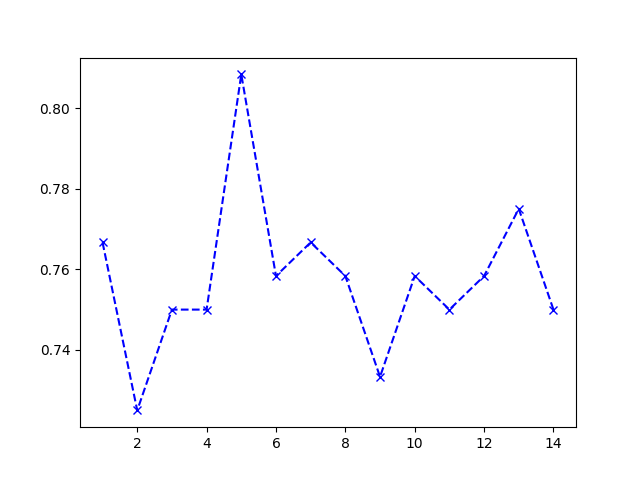
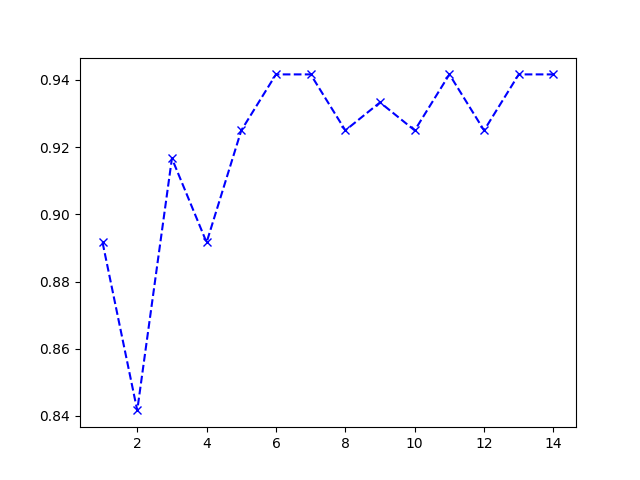
Add reworked KNN and main files

diff --git a/main.py b/main.py
@@ -1,17 +1,20 @@
+import numpy as np
 import pandas as pd
 import matplotlib.pyplot as plt
 import seaborn as sns
-from sklearn.metrics import accuracy_score
 from sklearn.model_selection import train_test_split
 from algorithm.KNN import KNN
 import tkinter as tk
 from tkinter import filedialog, messagebox
+from scipy.stats import mode
 
 
 class KNNApp:
     def __init__(self, root):
         self.root = root
         self.root.title("KNN App")
+
+        self.model = None
 
         # Variables to hold dataset and model data
         self.dataset = None
@@ -72,9 +75,18 @@ class KNNApp:
             X = self.dataset.drop('Purchase Iphone', axis=1)
             Y = self.dataset['Purchase Iphone']
             self.X_train, self.X_test, self.Y_train, self.Y_test = train_test_split(X, Y, test_size=0.3, random_state=42)
-            y_hat_test = KNN(self.X_train, self.X_test, self.Y_train, self.Y_test, k_val=self.k)
+            self.model = KNN(self.X_train, self.X_test, self.Y_train, self.Y_test, self.k)
             messagebox.showinfo("Info", "Model trained successfully!")
-            self.knn_results(y_hat_test)
+
+            plt.clf()
+            self.visualize_knn_result()
+            plt.xlabel('Age')
+            plt.ylabel('Salary')
+            plt.title('KNN Result')
+            plt.legend()
+            plt.savefig('results/knn_result.png')
+            plt.show()
+
             self.accuracy_btn.config(state=tk.NORMAL)
             self.predict_btn.config(state=tk.NORMAL)
         else:
@@ -82,18 +94,31 @@ class KNNApp:
 
     def view_accuracy(self):
         if self.X_train is not None:
-            accuracy_vals = []
-            for i in range(1, 15):
-                y_hat_test = KNN(self.X_train, self.X_test, self.Y_train, self.Y_test, k_val=i)
-                accuracy_vals.append(accuracy_score(self.Y_test, y_hat_test))
-            k = accuracy_vals.index(max(accuracy_vals)) + 1
+            k_values = list(range(1, 15))
+            accuracies = []
+            for k in k_values:
+                X = self.dataset.drop('Purchase Iphone', axis=1)
+                Y = self.dataset['Purchase Iphone']
+                X_train, X_test, Y_train, Y_test = train_test_split(X, Y, test_size=0.3, random_state=42)
+                knn_model = KNN(X_train, X_test, Y_train, Y_test, k)
+                accuracy = knn_model.accuracy()
+                accuracies.append(accuracy)
+
+            max_acc = 0.0
+            k = 0
+
+            for i in range(len(accuracies)):
+                if accuracies[i] > max_acc and i % 2 == 0:
+                    max_acc = accuracies[i]
+                    k = i + 1
+
             if k != self.k:
-                messagebox.showinfo('Find better k', f'Find better k value = {k} (your k now = {self.k}). Start retraining model')
+                messagebox.showinfo('Find better k', f'Find better k value = {k} with accuracy {max_acc}. Start retraining model')
                 self.k = k
                 self.train_model()
             else:
                 messagebox.showinfo('All ok', f'Your k value = {self.k}')
-            plt.plot(range(1, 15), accuracy_vals, color='blue', marker='x', linestyle='dashed')
+            plt.plot(k_values, accuracies, color='blue', marker='x', linestyle='dashed')
             plt.savefig('results/accuracy.png')
             plt.show()
         else:
@@ -104,26 +129,50 @@ class KNNApp:
             age = int(self.age_entry.get())
             salary = int(self.salary_entry.get())
             new_data = pd.DataFrame({'Age': [age], 'Salary': [salary]})
-            prediction = KNN(self.X_train, new_data, self.Y_train, self.Y_train, k_val=5)
+            knn_indices = self.model.predict_point(new_data)
+
+            prediction = mode([self.Y_train.loc[idx] for idx in knn_indices])
+
             result = 'will purchase an iPhone' if prediction[0] == 1 else 'will not purchase an iPhone'
             messagebox.showinfo("Prediction Result", f'The person with age {age} and salary {salary} {result}.')
+
+            plt.clf()
+            self.visualize_knn_result()
+            # Визуализируем новую точку
+            plt.scatter(age, salary, color='red', label='New Point')
+
+            # Визуализируем ближайших соседей
+            colors = np.random.rand(len(knn_indices), 3)
+
+            for i, idx in enumerate(knn_indices):
+                # Получаем случайный цвет для данного соседа
+                color = colors[i]
+
+                # Определяем метку для данного соседа в зависимости от класса
+                label = 'Neighbor (Not Purchased)' if self.Y_train.loc[idx] == 0 else 'Neighbor (Purchased)'
+
+                # Отображаем точку с данными координатами и случайным цветом
+                plt.scatter(self.model.X_train.loc[idx]['Age'], self.model.X_train.loc[idx]['Salary'], color=color,
+                            label=label, marker='x')
+
+            plt.xlabel('Age')
+            plt.ylabel('Salary')
+            plt.title('Prediction')
+            plt.legend()
+            plt.show()
 
         except Exception as e:
             messagebox.showerror("Error", f"Failed to make prediction: {e}")
 
-    def knn_results(self, y_hat_test):
-        plt.clf()
-        for i in range(len(y_hat_test)):
-            if y_hat_test[i] == 0:
-                plt.scatter(self.X_test.iloc[i]['Age'], self.X_test.iloc[i]['Salary'], color='blue')
-            if y_hat_test[i] == 1:
-                plt.scatter(self.X_test.iloc[i]['Age'], self.X_test.iloc[i]['Salary'], color='orange')
-        sns.scatterplot(data=self.dataset, x=self.X_test['Age'], y=self.X_test['Salary'], hue=self.Y_test)
-        plt.xlabel('Age')
-        plt.ylabel('Salary')
-        plt.title('KNN Result')
-        plt.savefig('results/knn_result.png')
-        plt.show()
+    def visualize_knn_result(self):
+        try:
+            plt.scatter(self.X_train[self.Y_train == 0]['Age'], self.X_train[self.Y_train == 0]['Salary'], color='blue',
+                        label='Not Purchase')
+            plt.scatter(self.X_train[self.Y_train == 1]['Age'], self.X_train[self.Y_train == 1]['Salary'],
+                        color='orange', label='Purchase')
+
+        except Exception as e:
+            messagebox.showerror("Error", f"Failed to visualize KNN result: {e}")
 
 
 if __name__ == "__main__":

diff --git a/algorithm/KNN.py b/algorithm/KNN.py
@@ -1,33 +1,56 @@
 import numpy as np
-from scipy.stats import mode
 import pandas as pd
+from sklearn.metrics import accuracy_score
+from scipy.stats import mode
+
+
+class KNN:
+    def __init__(self, X_train, X_test, Y_train, Y_test, k_val):
+        self.X_train = X_train
+        self.Y_train = Y_train
+        self.X_test = X_test
+        self.Y_test = Y_test
+        self.k_val = k_val
+
+        self.k_neighbors_list = None
+
+    def predict(self, X):
+        predictions, knn_indices = self._predict(X)
+        return predictions
+
+    def predict_point(self, X):
+        predictions, knn_indices = self._predict(X)
+        return knn_indices
+
+    def _predict(self, x):
+        y_hat = []
+        for test_pt in x.to_numpy():  # Для каждой точки из тестового набора данных
+            distances = []
+            for i in range(len(self.X_train)):  # Вычисляем расстояние между текущей точкой и каждой точкой тренировочного набора
+                distances.append(euclidean_distance(np.array(self.X_train.iloc[i]), test_pt))
+
+            distances_data = pd.DataFrame(data=distances, columns=['distance'], index=self.X_train.index)
+
+            # Находим K ближайших соседей
+            k_neighbors_list = distances_data.sort_values(by=['distance'], axis=0)[:self.k_val]
+
+            # Получаем метки (labels) для K ближайших соседей
+            labels = k_neighbors_list.index
+
+            # Выбираем наиболее частое значение среди меток соседей
+            voting = mode([self.Y_train.loc[x] for x in labels])[0]
+
+            y_hat.append(voting)
+
+        return y_hat, labels
+
+    def accuracy(self):
+        y_pred = self.predict(self.X_test)
+        accuracy = accuracy_score(self.Y_test, y_pred)
+        return accuracy
 
 
 # Определение функции расчета евклидова расстояния между двумя точками
 def euclidean_distance(pt1, pt2) -> int:
-    distance = np.sqrt(np.sum(pt1-pt2)**2)
+    distance = np.sqrt((pt1[0] - pt2[0]) ** 2 + ((pt1[1] - pt2[1]) / 1000) ** 2)
     return distance
-
-
-# Определение функции K ближайших соседей (KNN)
-def KNN(X_train, X_test, Y_train, Y_test, k_val):
-    y_hat = []
-    for test_pt in X_test.to_numpy():  # Для каждой точки из тестового набора данных
-        distances = []
-        for i in range(len(X_train)):  # Вычисляем расстояние между текущей точкой и каждой точкой тренировочного набора
-            distances.append(euclidean_distance(np.array(X_train.iloc[i]), test_pt))
-
-        distances_data = pd.DataFrame(data=distances, columns=['distance'], index=Y_train.index)
-
-        # Находим K ближайших соседей
-        k_neighbors_list = distances_data.sort_values(by=['distance'], axis=0)[:k_val]
-
-        # Получаем метки (labels) для K ближайших соседей
-        labels = Y_train.loc[k_neighbors_list.index]
-
-        # Выбираем наиболее частое значение среди меток соседей
-        voting = mode(labels)[0]
-
-        y_hat.append(voting)
-
-    return y_hat
